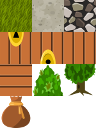
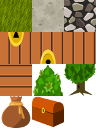
Looting of treasures, loot item creation

Changed region(s): [[0.3125, 0.75, 0.6875, 1.0]]

diff --git a/src/common/turn.js b/src/common/turn.js
@@ -9,6 +9,7 @@ import ActionTypes from 'actions/actiontypes';
 import TurnPhases from 'common/turnphases';
 import AttackAction from 'actions/attackaction';
 import MovementAction from 'actions/movementaction';
+import LootAction from 'actions/lootaction';
 import EndActionAction from 'actions/endactionaction';
 
 /**
@@ -122,7 +123,7 @@ export default class Turn {
         case ActionTypes.MOVE_ACTION:
             {
                 const lastPoint = action.path[action.path.length - 1];
-                console.log(`${action.actor.name} is moving to ${lastPoint.x}, ${lastPoint.y}. Movement left: ${action.actor.movementPoints}`);
+                //console.log(`${action.actor.name} is moving to ${lastPoint.x}, ${lastPoint.y}. Movement left: ${action.actor.movementPoints}`);
                 EventDispatcher.dispatch(EventTypes.MOVE_EVENT, { actor: action.actor, endPoint: lastPoint });
                 break;
             }
@@ -133,6 +134,13 @@ export default class Turn {
         case ActionTypes.END_ACTION_ACTION:
             //console.log(`${action.actor.name} is ending phase ${this.currentPhase.toString()}`);
             EventDispatcher.dispatch(EventTypes.END_ACTION_EVENT, { actor: action.actor, phase: this._phases.peek() });
+            break;
+        case ActionTypes.LOOT_ACTION:
+            {
+                const lootedItems = action.loot.items.map(i => i.name);
+                console.log(`${action.actor.name} looted ${action.loot.gold} gold and ${lootedItems.length} items ${lootedItems.length ? '(' + lootedItems.join(', ') + ')' : ''}`);
+                EventDispatcher.dispatch(EventTypes.LOOT_EVENT, { actor: action.actor, treasure: action.treasure });
+            }
             break;
         }
 
@@ -152,6 +160,10 @@ export default class Turn {
 
         if (phase === TurnPhases.ACTION_PHASE && command.type === CommandTypes.ATTACK_COMMAND) {
             this._actions.add(new AttackAction(command));
+        }
+
+        if (command.type === CommandTypes.LOOT_COMMAND) {
+            this._actions.add(new LootAction(command));
         }
 
         if (command.type === CommandTypes.END_ACTION_COMMAND) {

diff --git a/src/states/worldmapstate.js b/src/states/worldmapstate.js
@@ -2,6 +2,7 @@ import {Point, Signal, State} from 'phaser';
 import {filter, find, map} from 'lodash';
 import Player from 'sprites/player';
 import Sack from 'sprites/sack';
+import Treasure from 'sprites/treasure';
 import EnemyFactory from 'factories/enemyfactory';
 import PathFinder from 'pathfinder/pathfinder';
 import Round from 'common/round';
@@ -45,9 +46,10 @@ export default class WorldMapState extends State {
         this.map = this._createMap();
         this.actors = this.game.add.group();
         this.player = this._createPlayer();
-        this.treasures = this.game.add.group();
+        this._createMapObjects();
         this._createHUD();
         this._spawnEnemies();
+
         //this.game.world.scale.setTo(2.5);
         this.game.input.mouse.capture = true;
 
@@ -70,7 +72,7 @@ export default class WorldMapState extends State {
         const enemyInTile = this._isInTile(this.actors.children, tile, [ actorInTurn ]);
         const treasureInTile = this._isInTile(this.treasures.children, tile);
 
-        if (treasureInTile) actorInTurn.loot(treasureInTile);
+        if (treasureInTile) CommandDispatcher.loot(actorInTurn, treasureInTile);
 
         if (MapUtils.isSameTile(tile, actorPosition)) {
             CommandDispatcher.endAction(actorInTurn);
@@ -129,6 +131,11 @@ export default class WorldMapState extends State {
         return map;
     }
 
+    _createMapObjects() {
+        this.treasures = this.game.add.group();
+        this.map.createFromObjects('objectslayer', 11, 'tiles', 10, true, false, this.treasures, Treasure);
+    }
+
     _createPlayer() {
         const player = new Player(this.game, 16, 16);
 
@@ -150,12 +157,6 @@ export default class WorldMapState extends State {
         const sprites = map(enemies, e => {
             return factory.create(e);
         });
-
-        /*const enemy = new Enemy(this.game, 144, 144, { target: this.player });
-
-        enemy.movementStrategy = WanderMovementStrategy;
-
-        const standStillEnemy = new Enemy(this.game, 368, 272, { target: this.player, name: 'ROTTING CORPSE' });*/
 
         this.actors.addMultiple(sprites);
     }

diff --git a/src/commands/lootcommand.js b/src/commands/lootcommand.js
@@ -1,0 +1,42 @@
+import Command from 'commands/command';
+import CommandTypes from 'commands/commandtypes';
+import Actor from 'sprites/actor';
+import Treasure from 'sprites/treasure';
+
+/**
+ * @class LootCommand
+ * @description A command for looting a treasure
+ * @extends Command
+ */
+export default class LootCommand extends Command {
+
+    /**
+     * @constructor
+     * @param       {Object} props An key-value hash of properties
+     *                       {Actor} actor
+     *                       {Treasure} treasure
+     * @return      {LootCommand}
+     */
+    constructor(props) {
+        super(CommandTypes.LOOT_COMMAND, props);
+        this.validations = LootCommand.validations;
+        // validate implicitely
+        this.validate();
+    }
+}
+
+/**
+ * Loot command's static validators
+ * @static
+ * @type {Object}
+ */
+LootCommand.validations = {
+    actor: value => {
+        if (!value) return 'is missing!';
+        if (!(value instanceof Actor)) return 'is invalid';
+    },
+    treasure: value => {
+        if (!value) return 'is missing';
+        if (!(value instanceof Treasure)) return 'is invalid';
+    }
+};

diff --git a/src/actions/lootaction.js b/src/actions/lootaction.js
@@ -1,0 +1,50 @@
+import Action from 'actions/action';
+import ActionTypes from 'actions/actiontypes';
+
+/**
+ * @class LootAction
+ * @description A class representing looting of a treasure
+ * @extends {Action}
+ */
+export default class LootAction extends Action {
+
+    /**
+     * Getter for action type
+     * @return {Symbol}
+     */
+    get type() {
+        return ActionTypes.LOOT_ACTION;
+    }
+
+    /**
+     * @constructor
+     * @param       {Command} command
+     * @return      {LootAction}
+     */
+    constructor(command) {
+        super(command);
+        this.treasure = command.treasure;
+    }
+
+    /**
+     * Execute this action
+     * @return {boolean} true
+     */
+    execute() {
+        const damage = this.treasure.trapDamage();
+
+        if (damage) {
+            this.actor.damage(damage);
+            this.actor.emitText(-1 * damage);
+        }
+
+        const loot = this.loot = this.treasure.loot(this.actor);
+
+        this.actor.purse.addGold(loot.gold);
+        this.actor.purse.add(loot.items);
+
+        this.treasure.destroy();
+
+        return true;
+    }
+}

diff --git a/src/sprites/player.js b/src/sprites/player.js
@@ -57,7 +57,7 @@ export default class Player extends Actor {
      * @return      {Player}
      */
     constructor(game, x, y) {
-        super(game, x, y, 'player');
+        super(game, x, y, 'actors', 0);
 
         this.defaultAttack = config.initialAttack;
         this.defaultDefence = config.initialDefence;
@@ -77,19 +77,6 @@ export default class Player extends Actor {
 
     getMovementStrategy(turn) {
         return this._movementStrategy || (this._movementStrategy = new UserMovementStrategy(this, turn));
-    }
-
-    /**
-     * Loot a treasure. Add gold and items to player's purse
-     * @param  {Treasure} treasure
-     */
-    loot(treasure) {
-        const loot = treasure.loot();
-
-        this.purse.addGold(loot.gold);
-        this.purse.add(loot.items);
-
-        treasure.destroy();
     }
 
     /**

diff --git a/src/sprites/sack.js b/src/sprites/sack.js
@@ -1,22 +1,21 @@
 import Treasure from 'sprites/treasure';
 
 /**
- * @class LootSack
+ * @class Sack
  * @description A type of treasure that the enemies drop
  * @extends {Treasure}
  */
-export default class LootSack extends Treasure {
+export default class Sack extends Treasure {
     /**
      * @constructor
      * @param       {Game} game
      * @param       {number} x
      * @param       {number} y
      * @param       {object} props
-     * @return      {LootSack}
+     * @return      {Sack}
      */
-    constructor(...params) {
-        super(...params, 'tiles');
-        this.frame = 9;
+    constructor(game, x, y, props) {
+        super(game, x, y, 'tiles', 9, props);
         this.trapChance = 0;
     }
 }

diff --git a/src/factories/itemfactory.js b/src/factories/itemfactory.js
@@ -1,0 +1,19 @@
+import Item from 'sprites/item';
+import gameConfig from 'json!assets/config/gameconfig.json';
+
+export default class ItemFactory {
+
+    constructor(game) {
+        this.game = game;
+    }
+
+    create(objId) {
+        const centerPoint = gameConfig.map.tileSize / 2;
+        const itemProps = gameConfig.items[objId];
+        const itemSprite = new Item(this.game.game, centerPoint, centerPoint, itemProps);
+
+        itemSprite.center();
+
+        return itemSprite;
+    }
+}

diff --git a/src/commands/commanddispatcher.js b/src/commands/commanddispatcher.js
@@ -41,6 +41,15 @@ class CommandDispatcher extends Signal {
     }
 
     /**
+     * Dispatch a loot command
+     * @param  {Actor} actor
+     * @param  {Treasure} treasure
+     */
+    loot(actor, treasure) {
+        this.dispatch(new Commands.LootCommand({ actor, treasure }));
+    }
+
+    /**
      * Dispatch an end action command
      * @param  {Actor} actor
      */

diff --git a/src/commands/commands.js b/src/commands/commands.js
@@ -1,9 +1,11 @@
 import MoveCommand from 'commands/movecommand';
 import AttackCommand from 'commands/attackcommand';
 import EndActionCommand from 'commands/endactioncommand';
+import LootCommand from 'commands/lootcommand';
 
 export default {
     MoveCommand,
     AttackCommand,
-    EndActionCommand
+    EndActionCommand,
+    LootCommand
 };

diff --git a/src/hud/hud.js b/src/hud/hud.js
@@ -46,7 +46,7 @@ export default class HUD extends Group {
             break;
         case EventTypes.ATTRIBUTE_CHANGE_EVENT:
         case EventTypes.MOVE_EVENT:
-        case EventTypes.ATTACK_EVENT:
+        case EventTypes.LOOT_EVENT:
             this.statBoard.updateAttributes();
             break;
         }

diff --git a/src/sprites/item.js b/src/sprites/item.js
@@ -18,6 +18,7 @@ export default class Item extends SpriteBase {
 
         this.attackModifier = props.attackModifier || 0;
         this.defenceModifier = props.defenceModifier || 0;
+        this.name = props.name;
 
         this.isEquippable = props.isEquippable || false;
         this.isEquipped = false;
